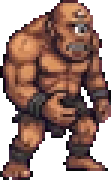
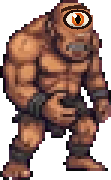
Cyclops: one big forehead eye, procedurally drawn throwing arms holding the boulder; restyled next-wave preview
Claude-Session: https://claude.ai/code/session_01QcHRMwbfbXYPMxzwXNUobZ

Changed region(s): [[0.5405, 0.0278, 0.8378, 0.1944]]

diff --git a/src/game.js b/src/game.js
@@ -370,8 +370,8 @@ export class Game {
     } else if (t.unit === 'cyclops') {
       const lead = posAt(target.d + target.def.speed * 0.6);
       this.sfx('throw');
-      const cs = size('cyclops'); // валун срывается с рук над головой
-      this.projectiles.push({ kind: 'rock', sx: t.x - t.face, sy: t.y - TOWER_TOP - cs.h - 3, gy0: t.y, spin: t.face, tx: lead.x, ty: lead.y - 3, t: 0, dur: 0.6, dmg: s.dmg,
+      const cs = size('cyclops'); // валун срывается из ладоней (holdX/holdY считает cyclopsHands при отрисовке)
+      this.projectiles.push({ kind: 'rock', sx: t.holdX ?? t.x - t.face, sy: t.holdY ?? t.y - TOWER_TOP - cs.h - 3, gy0: t.y, spin: t.face, tx: lead.x, ty: lead.y - 3, t: 0, dur: 0.6, dmg: s.dmg,
         splash: s.splash * (t.level >= 3 ? s.perkSplash : 1), stun: s.stun * (t.level >= 3 ? s.perkStun : 1) });
     } else if (t.unit === 'lich') {
       this.sfx('zap');
@@ -597,6 +597,47 @@ export class Game {
     ctx.restore();
   }
 
+  // Руки циклопа в движении: плечо → локоть → кулак, в цвет кожи с тёмным контуром, на пиксельной сетке.
+  // Считаются в координатах фигуры (смотрит вправо), затем — тот же наклон и отражение, что у всей фигуры
+  cyclopsArmPoints(arms, which) {
+    const { w, h } = size('cyclops');
+    const sh = which === 'near' ? [0.16, 0.24] : [0.84, 0.24];
+    const S = [-w / 2 + sh[0] * w, -h + sh[1] * h + (which === 'near' ? arms.dy : 0)];
+    const a1 = Math.PI / 2 + arms[which], a2 = a1 + arms.bend, L1 = 0.21 * h, L2 = 0.19 * h;
+    const E = [S[0] + Math.cos(a1) * L1, S[1] + Math.sin(a1) * L1];
+    const H = [E[0] + Math.cos(a2) * L2, E[1] + Math.sin(a2) * L2];
+    return { S, E, H, a2 };
+  }
+  withFigure(t, top, o, fn) {
+    const ctx = this.ctx, f = t.face < 0 ? -1 : 1;
+    ctx.save(); ctx.translate(t.x + (o.dx || 0) * f, top + (o.dy || 0)); ctx.scale(f, 1); if (o.rot) ctx.rotate(o.rot);
+    fn(ctx); ctx.restore();
+  }
+  drawCyclopsArm(t, top, o, arms, which) {
+    const { S, E, H } = this.cyclopsArmPoints(arms, which);
+    // цвета сняты с рук на картинке (с той же ночной тонировкой); дальняя рука в тени
+    const near = which === 'near';
+    const dark = '#24110a', base = near ? '#8c5642' : '#5a3226', shade = '#5a3226', lite = near ? '#b87a5a' : '#8c5642';
+    const seg = (A, B, col, wdt, ox = 0, oy = 0) => line(this.ctx, A[0] + ox, A[1] + oy, B[0] + ox, B[1] + oy, col, wdt);
+    this.withFigure(t, top, o, () => {
+      seg(S, E, dark, 6); seg(E, H, dark, 5);
+      seg(S, E, base, 4); seg(E, H, base, 3);
+      seg(S, E, shade, 1, 0.9, 0.6); seg(E, H, shade, 1, 0.7, 0.5);    // тень с нижней стороны
+      seg(S, E, lite, 1, -0.8, -0.4); seg(E, H, lite, 1, -0.6, -0.3);  // блик сверху: объём мышц
+      this.ctx.fillStyle = dark; pxEllipse(this.ctx, H[0], H[1], 2.4, 2.4);
+      this.ctx.fillStyle = base; pxEllipse(this.ctx, H[0], H[1], 1.7, 1.7);
+      this.ctx.fillStyle = lite; cell(this.ctx, H[0] - 1.2, H[1] - 1.2, 1.2, 0.6);
+    });
+  }
+  // валун — между кулаками, чуть дальше по направлению рук; возвращает мировые координаты
+  cyclopsHands(t, top, o, rig) {
+    const a = this.cyclopsArmPoints(rig.arms, 'near'), b = this.cyclopsArmPoints(rig.arms, 'far');
+    const ang = (a.a2 + b.a2) / 2;
+    const lx = (a.H[0] + b.H[0]) / 2 + Math.cos(ang) * 3.2, ly = (a.H[1] + b.H[1]) / 2 + Math.sin(ang) * 3.2;
+    const r = o.rot || 0, c = Math.cos(r), s = Math.sin(r), f = t.face < 0 ? -1 : 1;
+    return { x: t.x + (o.dx || 0) * f + (lx * c - ly * s) * f, y: top + (o.dy || 0) + lx * s + ly * c };
+  }
+
   drawRange(x, y, r, color = '#fff3c0') {
     const ctx = this.ctx;
     ctx.fillStyle = 'rgba(255,240,180,0.07)';
@@ -622,17 +663,19 @@ export class Game {
     if (t.unit === 'archer') this.drawBowstring(t, top, o, rig.parts[1].dy || 0, windup, atk);
     const glow = LEVEL_GLOW[t.level];
     if (glow) drawRigOutline(ctx, t.unit, t.x, top, o, rig.parts, glow[0], glow[1] * (0.75 + 0.25 * Math.sin(this.time * 3 + t.i)));
+    if (rig.arms?.active) this.drawCyclopsArm(t, top, o, rig.arms, 'far');  // дальняя рука — за туловищем
     const { w, h } = drawRig(ctx, t.unit, t.x, top, o, rig.parts);
+    if (rig.arms?.active) this.drawCyclopsArm(t, top, o, rig.arms, 'near'); // ближняя — поверх
     if (t.stunT > 0) { // оглушён ударом тролля: звёздочки над головой
       const a = this.time * 7;
       ctx.fillStyle = '#f3c843';
       for (let i = 0; i < 3; i++) cell(ctx, t.x + Math.cos(a + i * 2.1) * 6, top - h - 2 + Math.sin(a + i * 2.1) * 1.5, 2 * PIX, 2 * PIX);
     }
     const ry = top + (o.dy || 0);
-    if (t.unit === 'cyclops' && windup > 0 && !this.cyclopsHasBoulder) { // валун над головой перед броском
-      const k = windup * windup * (3 - 2 * windup); // поднимается вместе с руками: от груди до места над головой
-      const rx = t.x + t.face * (3 - 4 * k), by = ry - h * 0.45 - (h * 0.55 + 3) * k;
-      drawBoulder(ctx, rx, by, 0);
+    if (t.unit === 'cyclops' && windup > 0 && !this.cyclopsHasBoulder) { // валун лежит в ладонях и поднимается вместе с руками
+      const hold = this.cyclopsHands(t, top, o, rig);
+      t.holdX = hold.x; t.holdY = hold.y;
+      drawBoulder(ctx, hold.x, hold.y, 0);
     }
     if (t.unit === 'lich') { // свечение солнечной сферы на посохе жреца
       const glow = 0.35 + 0.25 * Math.sin(this.time * 4 + t.i) + atk * 0.6;

diff --git a/index.html b/index.html
@@ -48,14 +48,24 @@
   .pill.life { color: #ff8a7a; }
   #wave { font-family: var(--font); font-size: 15px; }
   #wave b { color: var(--gold); font-family: var(--pixel); font-size: 12px; font-weight: 400; }
-  /* анонс следующей волны */
-  #nextwave { font-family: var(--font); font-size: 13px; gap: 6px; padding: 3px 10px 3px 6px; }
-  #nextwave img { height: 24px; image-rendering: pixelated; }
-  #nextwave .lbl { color: var(--muted); }
-  #nextwave .tag { font-size: 11px; padding: 1px 6px; border-radius: 2px; background: #2b3247; color: var(--ink); white-space: nowrap; }
-  #nextwave .tag.warn { background: #5a2a1a; color: #ffc8a8; }
-  #nextwave .tag.boss { background: #6a1a14; color: #ffd0c0; }
-  #nextwave .time { font-family: var(--pixel); font-size: 11px; color: var(--gold); }
+  /* анонс следующей волны — в стиле карточек нижней панели */
+  #nextwave { font-family: var(--font); gap: 8px; padding: 0 10px 0 4px; }
+  #nextwave .nw-pic { width: 26px; height: 26px; flex: none; display: grid; place-items: end center; overflow: hidden; border-radius: 3px;
+    background: radial-gradient(ellipse at 50% 70%, #3a4668 0%, #161b29 75%); border: 2px solid #0e1119; box-shadow: inset 0 0 0 1px #4d5777; }
+  #nextwave .nw-pic img { height: 24px; max-width: 24px; object-fit: contain; image-rendering: pixelated; }
+  #nextwave .nw-text { display: flex; flex-direction: column; line-height: 1.05; }
+  #nextwave .nw-lbl { font-size: 9px; font-weight: 700; letter-spacing: 0.08em; text-transform: uppercase; color: var(--muted); }
+  #nextwave .nw-name { font-size: 13px; font-weight: 700; color: var(--ink); white-space: nowrap; }
+  #nextwave .nw-count { font-family: var(--pixel); font-size: 9px; color: var(--gold); }
+  #nextwave .nw-tag { font-size: 11px; font-weight: 700; line-height: 1; padding: 4px 7px; border-radius: 10px; white-space: nowrap;
+    background: #1a2030; color: var(--ink); box-shadow: inset 0 0 0 1px #3b4563; cursor: help; }
+  #nextwave .nw-tag.air { color: #9fd0ff; box-shadow: inset 0 0 0 1px #2e5a8a; background: #15233a; }
+  #nextwave .nw-tag.armor { color: #d6dbe6; box-shadow: inset 0 0 0 1px #5a6378; background: #222836; }
+  #nextwave .nw-tag.fast { color: #ffd68a; box-shadow: inset 0 0 0 1px #6a5422; background: #2a2414; }
+  #nextwave .nw-tag.regen { color: #a8f07a; box-shadow: inset 0 0 0 1px #3a6a2a; background: #16261a; }
+  #nextwave .nw-tag.boss { color: #ffb0a0; box-shadow: inset 0 0 0 1px #8a2a22; background: #2e1412; }
+  #nextwave .nw-time { font-family: var(--pixel); font-size: 10px; color: #1a1206; background: var(--gold); padding: 4px 6px; border-radius: 3px; box-shadow: inset 0 -2px 0 #9a6b1c; }
+  #nextwave .nw-wait { font-size: 11px; font-weight: 500; color: var(--muted); }
   .unit, .spell { position: relative; }
   /* звёзды на финальном экране */
   .stars { display: flex; gap: 8px; font-size: 34px; line-height: 1; }
@@ -200,7 +210,7 @@
     .spell { width: 64px; }
     #bottom .build { grid-column: 1 / -1; }
     .pill { font-size: 11px; padding: 4px 8px; }
-    #nextwave .tag:not(.boss):not(.warn) { display: none; }
+    #nextwave .nw-tag:not(.boss):not(.air) { display: none; }
   }
   @media (prefers-reduced-motion: reduce) { #banner { animation-duration: 0.01s; animation-fill-mode: none; } }
 </style>

diff --git a/src/ui.js b/src/ui.js
@@ -103,12 +103,12 @@ function refreshHud() {
 }
 
 // анонс следующей волны: кто идёт, сколько, чем опасен и когда
-const TRAITS = {
-  flying: ['летают — циклоп не достаёт', 'warn'],
-  armor: ['броня — магия и огонь сильнее', ''],
-  fast: ['быстрые', ''],
-  regen: ['лечится', ''],
-  boss: ['босс: бьёт по башням, звереет', 'boss'],
+const TRAITS = { // короткая метка, класс цвета, полное пояснение во всплывающей подсказке
+  flying: ['✈ летают', 'air', 'Летают — циклоп их не достаёт'],
+  armor: ['🛡 броня', 'armor', 'В броне — магия и огонь бьют сильнее стрел и камней'],
+  fast: ['» быстрые', 'fast', 'Быстрые — успевают проскочить'],
+  regen: ['✚ лечится', 'regen', 'Восстанавливает здоровье'],
+  boss: ['☠ босс', 'boss', 'Босс: бьёт по башням и звереет при половине здоровья'],
 };
 function refreshNextWave() {
   const box = $('nextwave'), n = C.WAVES[game.waveIdx + 1];
@@ -118,10 +118,11 @@ function refreshNextWave() {
   if (e.armor >= 0.3) tags.push(TRAITS.armor);
   if (e.speed >= 35) tags.push(TRAITS.fast);
   if (e.boss) tags.push(TRAITS.boss); else if (e.regen) tags.push(TRAITS.regen);
-  const when = game.phase === 'break' && game.enemies.length === 0 ? `<span class="time">${Math.ceil(game.breakT)} с</span>`
-    : game.phase === 'prep' ? '' : '<span class="lbl">после этой</span>';
-  const html = `<span class="lbl">Далее:</span>${portrait(n.type)}<span>${e.name}${n.count > 1 ? ' ×' + n.count : ''}</span>` +
-    tags.map(([t, c]) => `<span class="tag ${c}">${t}</span>`).join('') + when;
+  const counting = game.phase === 'break' && game.enemies.length === 0;
+  const when = game.phase === 'prep' ? '' : counting ? `<span class="nw-time">${Math.ceil(game.breakT)} с</span>` : '<span class="nw-wait">следом</span>';
+  const html = `<span class="nw-pic">${portrait(n.type)}</span><span class="nw-text"><span class="nw-lbl">Далее</span>` +
+    `<span class="nw-name">${e.name}${n.count > 1 ? ` <span class="nw-count">×${n.count}</span>` : ''}</span></span>` +
+    tags.map(([t, c, tip]) => `<span class="nw-tag ${c}" title="${tip}">${t}</span>`).join('') + when;
   if (box.dataset.html !== html) { box.innerHTML = html; box.dataset.html = html; }
   box.hidden = false;
 }

diff --git a/src/anim.js b/src/anim.js
@@ -97,15 +97,17 @@ export function unitRig(unit, t, atk, windup, seed) {
     }
     case 'cyclops': { // поднимает валун над головой и швыряет его вперёд всем корпусом
       const up = ease(windup), hit = atk;
-      // руки: замах вверх через перёд; на броске проходят вперёд и вниз
-      const idle = Math.sin(t * 1.6 + seed) * 0.06 * (1 - up);    // в покое руки чуть качаются
-      const arm = -2.7 * Math.max(up, hit * hit * 0.9) + idle;
-      return { o: { rot: -0.12 * up + 0.22 * hit + Math.sin(t * 0.9 + seed) * 0.02, dx: -0.8 * up + 2 * hit }, parts: [ // переминается
-        { r: [0.8, 0.18, 1, 0.62], rot: arm * 1.08, at: [0.84, 0.22] },             // дальняя рука
-        { r: [0, 0.62, 1, 1], sy: 1 - 0.06 * up, pivot: 'top' },                      // ноги приседают на замахе
-        { r: [0.2, 0, 0.8, 0.64], dy: breath * 0.45 + 1.2 * up - 0.8 * hit },         // голова и торс
-        { r: [0, 0.18, 0.2, 0.62], rot: arm, at: [0.16, 0.22], dy: 1.2 * up - 0.8 * hit }, // ближняя рука
-      ] };
+      // угол рук от плеча: 0 — висят вниз, −2.7 — подняты над головой (через перёд); на броске идут вперёд и вниз
+      const arm = -2.7 * Math.max(up, hit * hit * 0.9);
+      const active = arm < -0.12;                     // в движении руки рисуются заново целиком (game.js, drawCyclopsArm)
+      const bodyDy = breath * 0.45 + 1.2 * up - 0.8 * hit;
+      const parts = [
+        { r: [0, 0.62, 1, 1], sy: 1 - 0.06 * up, pivot: 'top' },  // ноги приседают на замахе
+        { r: [0.2, 0, 0.8, 0.64], dy: bodyDy },                   // голова и торс
+      ];
+      if (!active) parts.push({ r: [0, 0.18, 0.2, 0.62], dy: bodyDy }, { r: [0.8, 0.18, 1, 0.62], dy: breath * 0.45 }); // руки из картинки
+      return { o: { rot: -0.12 * up + 0.22 * hit + Math.sin(t * 0.9 + seed) * 0.02, dx: -0.8 * up + 2 * hit }, parts,
+        arms: { active, far: arm * 1.06, near: arm, bend: -0.7 * Math.max(up, hit * 0.6), dy: bodyDy } };
     }
     case 'lich': { // жрец поднимает посох перед лучом и вскидывает его при выстреле; подол колышется
       const lift = 1.2 * ease(windup) + 1.6 * atk;

diff --git a/CLAUDE.md b/CLAUDE.md
@@ -45,7 +45,10 @@
 - Сцена: свет и язычки факелов, светлячки, туман, враги рассыпаются на пиксели, трещины на воротах.
   «+N» золота за убийство владелец попросил убрать (метод `fx.gold` оставлен, но не вызывается).
 - Анимации защитников (`unitRig` в `anim.js`): части могут поворачиваться вокруг точки крепления (`rot` + `at`).
-  Циклоп поднимает валун над головой руками и бросает корпусом; лучник натягивает тетиву с отдачей;
+  Циклоп поднимает валун над головой и бросает корпусом: в движении руки не режутся из картинки, а рисуются заново
+  (`drawCyclopsArm`: плечо → локоть → кулак), валун лежит между кулаками (`cyclopsHands`) и вылетает из них.
+  У циклопа один большой глаз во лбу — дорисован в `assets/cyclops.png` (у новой картинки проверить, что глаз один);
+  лучник натягивает тетиву с отдачей;
   жрец вскидывает посох; дракон при выдохе выбрасывает голову вперёд, хвост качается.
   Координаты факелов и ворот — `TORCHES`, `GATE` в `game.js`.
 - Фон тоже ужат до сетки `PIX` (800×400 клеток, `renderBackground` в `map.js`) — зерно у фона, башен и персонажей одинаковое.
@@ -60,6 +63,7 @@
 - Пауза между волнами `WAVE_BREAK` отсчитывается только после того, как поле очистилось; затем баннер «Волна N отбита!».
 - Защитники по умолчанию смотрят влево — навстречу врагам.
 - Огонь дракона — вытянутые языки пламени (`tongue` в `fx.js`), загибаются вверх к концу жизни.
+- Анонс следующей волны: портрет, имя, ×число, короткие чипы особенностей (пояснение во всплывающей подсказке), отсчёт.
 - Нижняя панель: карточки защитников с портретом, ценой и клавишей; карточка выбранной башни со звёздами уровня
   и характеристиками; плитки заклинаний заполняются по мере накопления маны (`--charge`).
 
